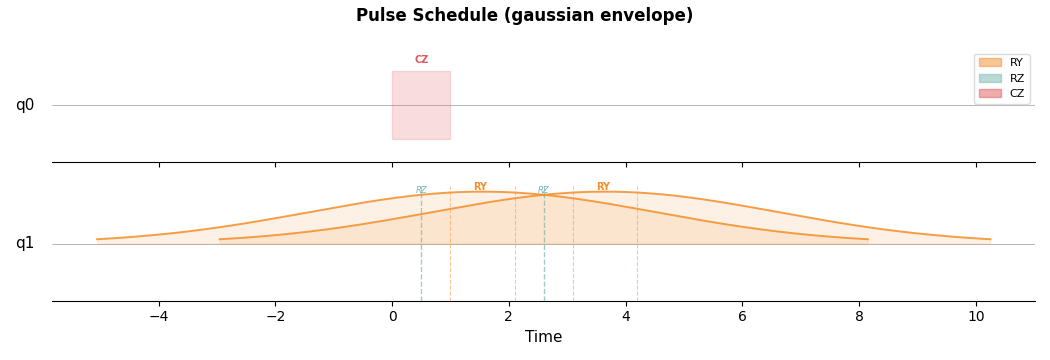
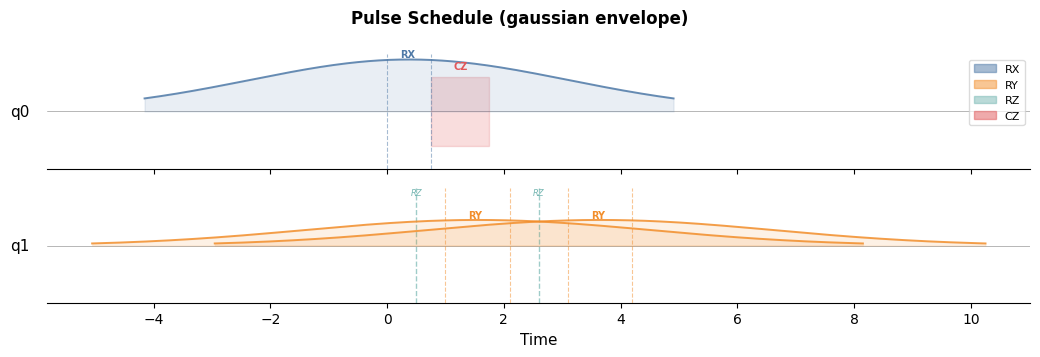
fig up

diff --git a/docs/yaqsi.md b/docs/yaqsi.md
@@ -151,8 +151,8 @@ Note that all gates are automatically decomposed into basis gates (e.g. `H` is d
 
 ```python
 def circuit(w):
+    PulseGates.RX(w, wires=0)
     PulseGates.CZ(wires=0)
-    PulseGates.RY(wires=0)
     PulseGates.H(wires=1)
     PulseGates.H(wires=1)
 
